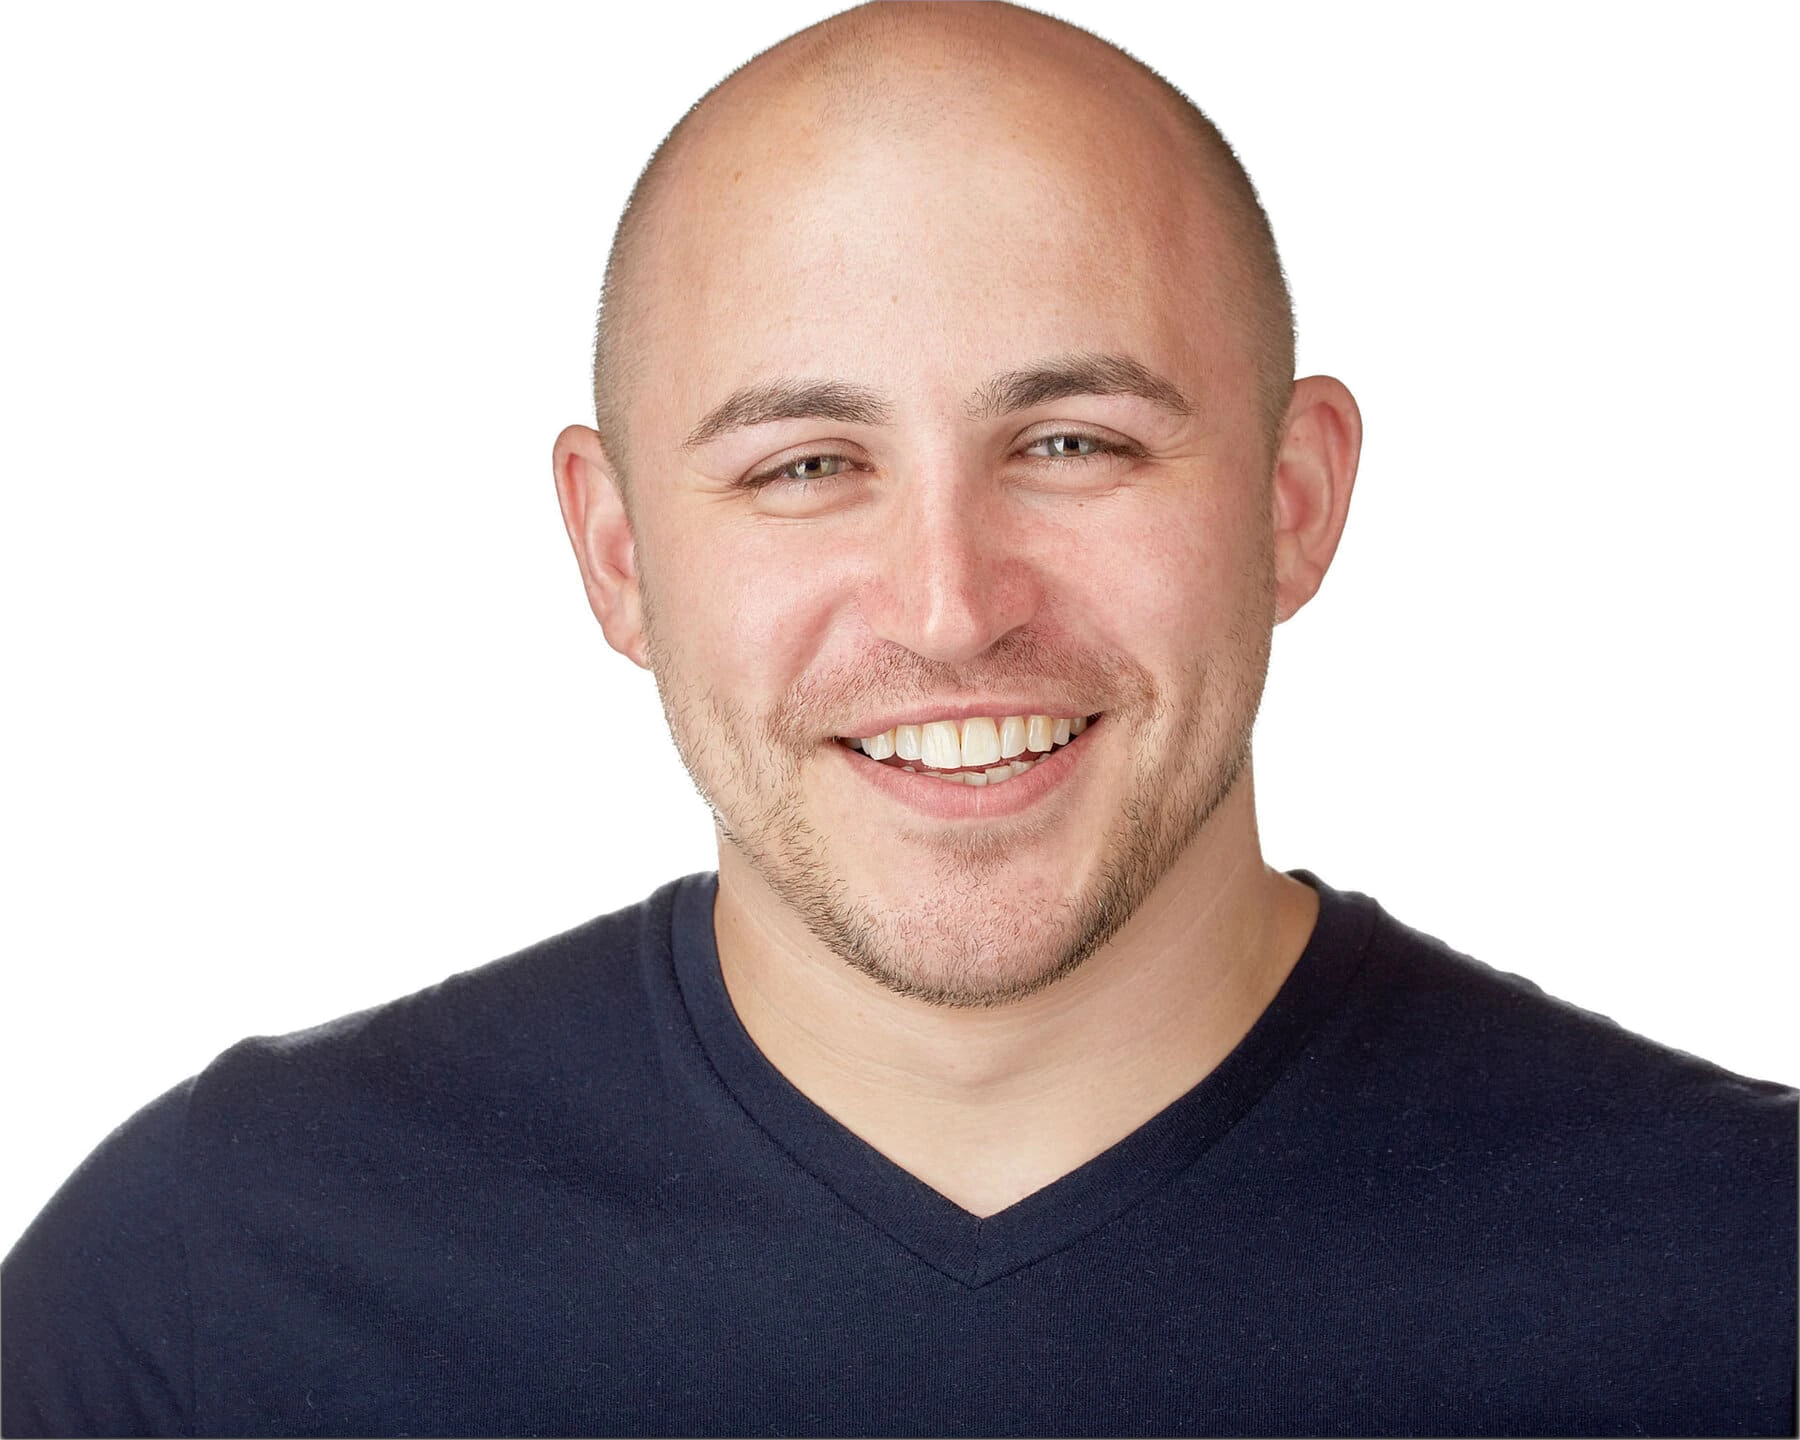
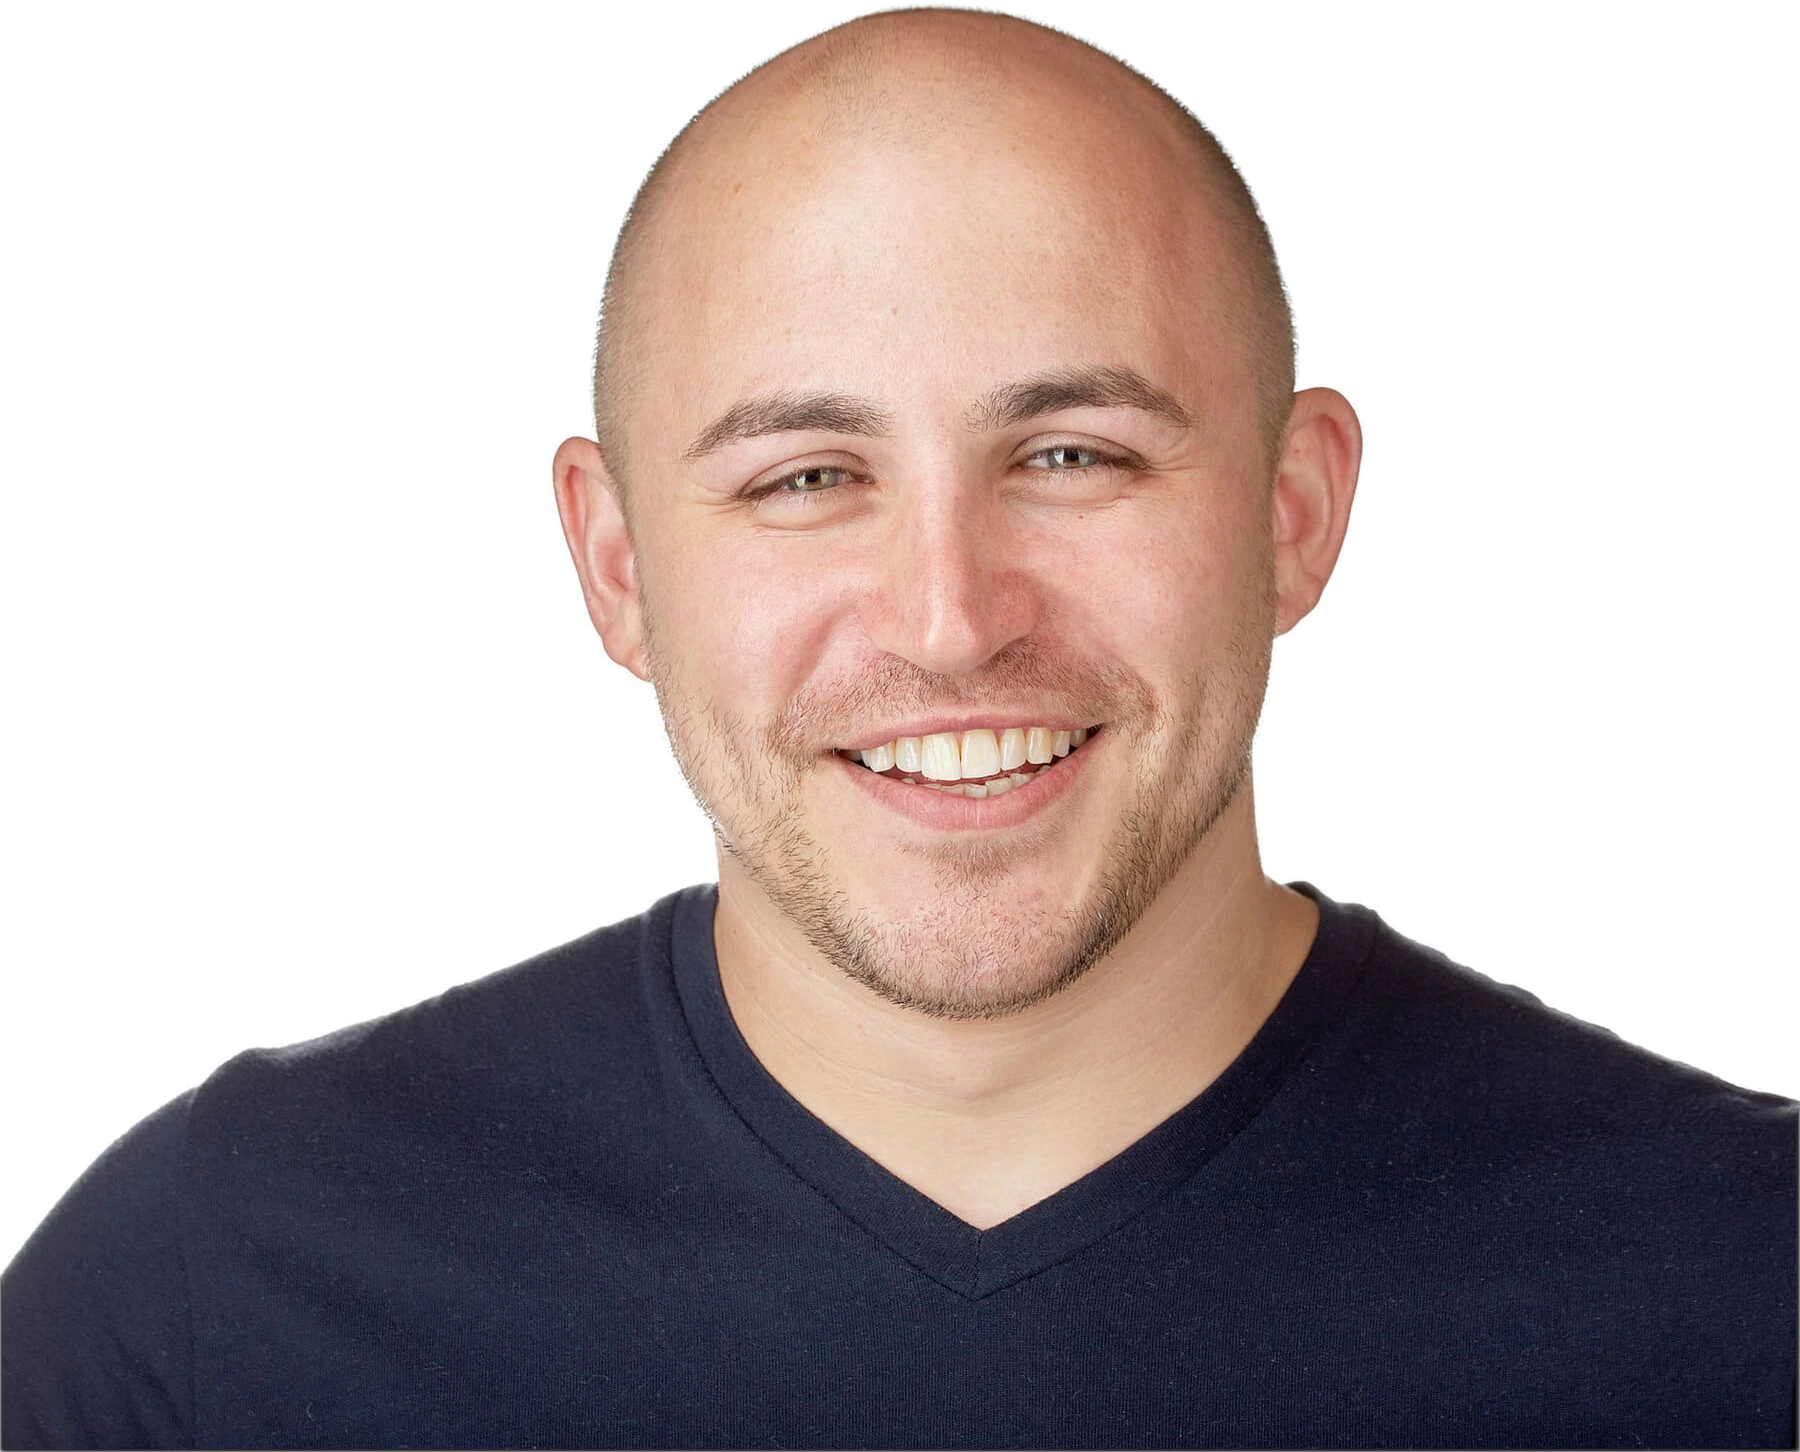
Rebuild portraits from Ole's retouched crown; fix Full Colour's missing hero
The crown is retouched by hand. The master grew to 1800x1460 and the dome now
opens 14 -> 57 -> 98 -> 121 -> 141px across its first rows instead of starting
at a 137px flat chord. All three assets are rebuilt from it; the dark-ground
variant still profiles monotonically outward-to-inward on the teal band, so the
edge treatment survives the retouch unchanged.

Full Colour's hero had no background at all: an earlier stylesheet replacement
never landed, so `--grad`, `--grad-soft` and `--spectrum` were referenced but
never defined, and the hero floor, header hairline and low-income border all
painted nothing. Defined them, and dropped the stale `.strip` gradient that was
fighting its own coral surface.

Headings on a colour block now take a lighter, more saturated shade of that
block rather than white — coral #ffae83, magenta #ff9ec4, violet #b596ff, plum
#dc9dff, teal #5fe6d6, amber #ffc663, aubergine #ff9ec4. Each measured against
its own surface: 4.52 to 5.50:1, with body text 6.2 to 12:1 and no failures
across every text node on the page.

The levels of the dark frame are Ole's too: drop a full-size
docs/source-assets/john-dark-levelled.png and the script uses it verbatim,
falling back to the built-in curve only when it is absent.

diff --git a/design/full-colour.html b/design/full-colour.html
@@ -10,9 +10,15 @@
 <link href="https://fonts.googleapis.com/css2?family=Bricolage+Grotesque:opsz,wght@12..96,600;12..96,700;12..96,800&family=Instrument+Sans:wght@400;500;600&display=swap" rel="stylesheet">
 <style>
 :root{
-  --oat:#f4efe6; --cream:#fbf8f3; --tint:#ead9c9;
-  --ink:#241c18; --muted:#6a5a50; --deep:#241c18;
-  --clay:#a2482b; --clay-dk:#8a3b21;
+  --cream:#fdf7f0; --oat:#f6ece1; --tint:#f7e3d3;
+  --ink:#241528; --muted:#6a5361; --deep:#241528;
+  /* Six hues. Each gets a full-width monochrome surface further down, with the
+     type on it in a lighter tint of the same hue. */
+  --coral:#b3341f; --amber:#9a5a09; --teal:#0f6d68; --magenta:#a01e5c; --violet:#5b2f8f;
+  --clay:#a01e5c; --clay-dk:#5b2f8f;
+  --grad:linear-gradient(103deg,#b3341f 0%,#a8235f 46%,#5b2f8f 100%);
+  --spectrum:linear-gradient(90deg,#e04a2f,#d98314,#0f7d78,#c02a72,#6d3ba8);
+  --grad-soft:linear-gradient(103deg,#e04a2f 0%,#c02a72 46%,#6d3ba8 100%);
   --container:1140px; --section:100px;
   --display:'Bricolage Grotesque',ui-sans-serif,system-ui,sans-serif;
   --sans:'Instrument Sans',ui-sans-serif,system-ui,sans-serif;
@@ -61,7 +67,7 @@ nav a:hover{color:var(--clay-dk)}
 .hero .floor{position:absolute;left:0;right:0;bottom:0;height:34%;z-index:-1;pointer-events:none;
   background:var(--grad)}
 .hero .floor::after{content:"";position:absolute;left:0;right:0;top:0;height:6px;
-  background:linear-gradient(90deg,#e04a2f,#d98314,#0f7d78,#c02a72,#6d3ba8)}
+  background:var(--spectrum)}
 @media(max-width:899px){.hero .floor{height:26%}}
 .heroGrid{display:grid;gap:32px;align-items:end}
 @media(min-width:900px){.heroGrid{grid-template-columns:1.08fr .92fr;gap:48px}}
@@ -91,7 +97,7 @@ section{padding:var(--section) 0}
 .cream{background:var(--cream)}
 .oat{background:var(--oat);position:relative}
 .oat::before{content:"";position:absolute;left:0;right:0;top:0;height:3px;
-  background:linear-gradient(90deg,#e04a2f,#d98314,#0f7d78,#c02a72,#6d3ba8);opacity:.55}
+  background:var(--spectrum);opacity:.55}
 .tint{background:var(--tint)}
 .kicker{font-family:var(--sans);font-size:13px;letter-spacing:.14em;text-transform:uppercase;
   color:var(--magenta);font-weight:600;margin:0 0 18px}
@@ -99,7 +105,7 @@ h2{font-size:clamp(30px,4.6vw,52px)}
 .lead{font-size:clamp(18px,2vw,21px);color:var(--muted);max-width:58ch;margin:20px 0 0}
 
 /* contact strip, early — the number is the interface */
-.strip{background:var(--grad);color:#fff}
+.strip{padding:56px 0}
 .strip .wrap{padding-top:46px;padding-bottom:46px;display:grid;gap:22px;align-items:center}
 @media(min-width:900px){.strip .wrap{grid-template-columns:1fr auto;gap:48px}}
 .strip h2{font-size:clamp(24px,3vw,34px);color:#fff}
@@ -175,8 +181,8 @@ details .body ul{margin:0 0 14px;padding-left:20px}
 /* contact */
 #contact{background:var(--ink);color:#f6ece1;position:relative;isolation:isolate;overflow:clip}
 #contact::before{content:"";position:absolute;left:0;right:0;top:0;height:8px;
-  background:linear-gradient(90deg,#e04a2f,#d98314,#0f7d78,#c02a72,#6d3ba8)}
-#contact h2{color:#fff}
+  background:var(--spectrum)}
+#contact h2{color:var(--hd)}
 #contact .kicker{color:#f0a7b8}
 #contact .lead{color:#d8c7ce}
 .big{margin-top:44px;display:grid;gap:26px}
@@ -196,19 +202,20 @@ footer a{color:#efe2ea}
 /* ---- full-width colour surfaces: one hue per block, type in a lighter tint of
    the same hue. Every surface/tint pair measures AA (6.2 to 8.7:1). ---- */
 .surface{background:var(--sf);color:var(--tx)}
-.surface h2,.surface h3,.surface .num,.surface .v,.surface b,.surface summary{color:#fff}
+.surface h2,.surface h3,.surface .num,.surface .v,.surface b,.surface summary{color:var(--hd)}
+.surface .aboutGrid .prose p:first-child{color:var(--hd)}
 .surface .kicker,.surface .who,.surface .k{color:var(--tx-strong)}
 .surface p,.surface .lead,.surface li,.surface .h,.surface .em{color:var(--tx)}
 .surface a{color:#fff}
 .surface .more{color:#fff;border-bottom-color:currentColor}
 .surface .btn-ghost{border-color:currentColor;color:#fff}
-.s-coral  {--sf:#8e2f1c;--tx:#ffd9cd;--tx-strong:#ffb9a4}
-.s-amber  {--sf:#6f4207;--tx:#fbe6c4;--tx-strong:#f0c98c}
-.s-teal   {--sf:#0d5a56;--tx:#cfeae6;--tx-strong:#8fd3cc}
-.s-magenta{--sf:#7d1747;--tx:#fbd7e6;--tx-strong:#f2a9c6}
-.s-violet {--sf:#452473;--tx:#e2d7f7;--tx-strong:#bda9ee}
-.s-plum   {--sf:#5b2078;--tx:#eed9f7;--tx-strong:#d3a9ee}
-.s-ink    {--sf:#241528;--tx:#e8dbe4;--tx-strong:#f0a7b8}
+.s-coral  {--sf:#8e2f1c;--tx:#ffd9cd;--tx-strong:#ffb9a4;--hd:#ffae83}
+.s-amber  {--sf:#6f4207;--tx:#fbe6c4;--tx-strong:#f0c98c;--hd:#ffc663}
+.s-teal   {--sf:#0d5a56;--tx:#cfeae6;--tx-strong:#8fd3cc;--hd:#5fe6d6}
+.s-magenta{--sf:#7d1747;--tx:#fbd7e6;--tx-strong:#f2a9c6;--hd:#ff9ec4}
+.s-violet {--sf:#452473;--tx:#e2d7f7;--tx-strong:#bda9ee;--hd:#b596ff}
+.s-plum   {--sf:#5b2078;--tx:#eed9f7;--tx-strong:#d3a9ee;--hd:#dc9dff}
+.s-ink    {--sf:#241528;--tx:#e8dbe4;--tx-strong:#f0a7b8;--hd:#ff9ec4}
 .surface .feeRow{border-bottom-color:rgba(255,255,255,.24)}
 .surface .lowincome{background:transparent;border:2px solid rgba(255,255,255,.42);background-image:none}
 .surface .faqlist,.surface details{border-color:rgba(255,255,255,.28)}
@@ -266,7 +273,7 @@ footer a{color:#efe2ea}
         whichever feels easiest today.</p>
     </div>
     <figure class="heroFig">
-      <img src="assets/john-cutout.webp?v6" alt="John Goss" width="1800" height="1440" fetchpriority="high">
+      <img src="assets/john-cutout.webp?v7" alt="John Goss" width="1800" height="1452" fetchpriority="high">
     </figure>
   </div>
 </section>
@@ -371,7 +378,7 @@ footer a{color:#efe2ea}
         <a class="more" href="/about">More about me and how I work</a>
       </div>
       <figure class="aboutPhoto">
-        <img src="assets/john-portrait-round.webp?v6" alt="John Goss" width="620" height="620" loading="lazy">
+        <img src="assets/john-portrait-round.webp?v7" alt="John Goss" width="620" height="620" loading="lazy">
       </figure>
     </div>
   </div>

diff --git a/design/quiet-practice.html b/design/quiet-practice.html
@@ -210,7 +210,7 @@ footer a{color:#d7e2dc}
         we'll find a time to talk. You'll be speaking to me, not to a receptionist.</p>
     </div>
     <figure class="portrait">
-      <span class="cutframe"><img src="assets/john-cutout.webp?v6" alt="John Goss" width="1800" height="1440" fetchpriority="high"></span>
+      <span class="cutframe"><img src="assets/john-cutout.webp?v7" alt="John Goss" width="1800" height="1452" fetchpriority="high"></span>
       <figcaption>John Goss — NCPS Accredited Member, COSRT member.</figcaption>
     </figure>
   </div>
@@ -279,7 +279,7 @@ footer a{color:#d7e2dc}
     </div>
     </div>
     <figure class="aboutPhoto">
-      <img src="assets/john-portrait-round.webp?v6" alt="John Goss" width="620" height="620" loading="lazy">
+      <img src="assets/john-portrait-round.webp?v7" alt="John Goss" width="620" height="620" loading="lazy">
     </figure>
   </div>
 </section>

diff --git a/design/clear-water.html b/design/clear-water.html
@@ -224,7 +224,7 @@ footer a{color:#d3e6ea}
         directly — you'll be speaking to me, not to a receptionist.</p>
     </div>
     <figure class="heroFig">
-      <img src="assets/john-cutout-dark.webp?v6" alt="John Goss" width="1800" height="1440" fetchpriority="high">
+      <img src="assets/john-cutout-dark.webp?v7" alt="John Goss" width="1800" height="1452" fetchpriority="high">
     </figure>
   </div>
 </section>
@@ -313,7 +313,7 @@ footer a{color:#d3e6ea}
       </div>
     </div>
     <figure class="aboutPhoto">
-      <img src="assets/john-portrait-round.webp?v6" alt="John Goss" width="620" height="620" loading="lazy">
+      <img src="assets/john-portrait-round.webp?v7" alt="John Goss" width="620" height="620" loading="lazy">
     </figure>
   </div>
 </section>

diff --git a/scripts/build-cutouts.py b/scripts/build-cutouts.py
@@ -5,12 +5,12 @@
                                                   # as it is (e.g. after a hand retouch of the
                                                   # crown) and only re-derive what depends on it
 
-TO RETOUCH THE CROWN: edit `docs/source-assets/john-light-decontaminated.png` — 1800x1440 RGBA,
-lossless, background already removed and decontaminated against the white backdrop. The top of
-his head is clipped flat at y=0 across x 869..1005, so the canvas needs extending upward before
-the crown can be painted. Then run this script with no arguments and everything downstream is
-rebuilt from your version. (If you would rather work on the WebP directly, edit
-`design/assets/john-cutout.webp` and run with --from-master.)
+TO RETOUCH THE CROWN: edit `docs/source-assets/john-light-decontaminated.png` — RGBA, lossless,
+background already removed and decontaminated against the white backdrop. The source frame clips
+the top of his head, so the canvas has to grow upward; the version in the repo has been retouched
+by hand and now stands 1800x1460. Run this script with no arguments and everything downstream is
+rebuilt from it. (To work on the WebP directly instead, edit `design/assets/john-cutout.webp` and
+run with --from-master.)
 
 Three assets come out in design/assets/:
 
@@ -28,12 +28,15 @@ Three assets come out in design/assets/:
                           wrap. Verified by compositing on the real band colour and profiling
                           luminance inward: it rises monotonically, so no halo, no dark outline.
 
-  john-portrait-round.webp  the dark studio frame, which KEEPS its own background, tone-curved
-                          and cropped square on his face for circular use at small sizes. The
-                          curve is applied to luminance only and RGB is scaled by the ratio, so
-                          hue and saturation are unchanged (measured 0.0000%); it lifts the mids
-                          (median 38 -> 55) and tracks the identity line above L~150, so the
-                          specular highlights stay where the photographer put them.
+  john-portrait-round.webp  the dark studio frame, which KEEPS its own background, graded and
+                          cropped square on his face for circular use at small sizes.
+
+                          TO GRADE IT BY HAND: put a full-size version at
+                          `docs/source-assets/john-dark-levelled.png` (same pixel dimensions as
+                          John-Goss-038.jpg, 1800x1440) and it is used verbatim. Without it, a
+                          fallback tone curve is applied to luminance only — RGB scaled by the
+                          ratio, so hue and saturation are untouched — lifting the mids
+                          (median 38 -> 55) and leaving the highlights where they were.
 """
 from PIL import Image
 import numpy as np, os, sys
@@ -86,12 +89,22 @@ def dark_variant():
 
 
 def round_portrait():
+    """If a hand-graded file is present it is used verbatim; otherwise a tone curve
+    is applied to luminance only (RGB scaled by the ratio, so hue and saturation
+    are untouched), lifting the mids and leaving the highlights alone."""
+    graded = f"{SRC}/john-dark-levelled.png"
     o = np.array(Image.open(f"{SRC}/John-Goss-038.jpg").convert("RGB")).astype(np.float32)
     L = 0.2126 * o[..., 0] + 0.7152 * o[..., 1] + 0.0722 * o[..., 2]
-    X = np.array([0, 12, 30, 55, 95, 130, 165, 200, 255], float)
-    Y = np.array([0, 13, 42, 80, 125, 152, 172, 200, 255], float)
-    Lp = np.clip(PchipInterpolator(X, Y)(np.clip(L, 0, 255)), 0, 255)
-    g = np.clip(o * np.where(L > 1.0, Lp / np.maximum(L, 1e-3), 1.0)[..., None], 0, 255)
+    if os.path.exists(graded):
+        g = np.array(Image.open(graded).convert("RGB")).astype(np.float32)
+        if g.shape[:2] != o.shape[:2]:
+            sys.exit(f"{graded} is {g.shape[1]}x{g.shape[0]}, expected {o.shape[1]}x{o.shape[0]}")
+        print("  round portrait: using the hand-graded john-dark-levelled.png")
+    else:
+        X = np.array([0, 12, 30, 55, 95, 130, 165, 200, 255], float)
+        Y = np.array([0, 13, 42, 80, 125, 152, 172, 200, 255], float)
+        Lp = np.clip(PchipInterpolator(X, Y)(np.clip(L, 0, 255)), 0, 255)
+        g = np.clip(o * np.where(L > 1.0, Lp / np.maximum(L, 1e-3), 1.0)[..., None], 0, 255)
     lev = Image.fromarray(g.astype(np.uint8), "RGB")
     side = int(o.shape[0] * 0.93)
     cxh, cyh = 908, int(46 + side * 0.44)               # measured from the subject mask
